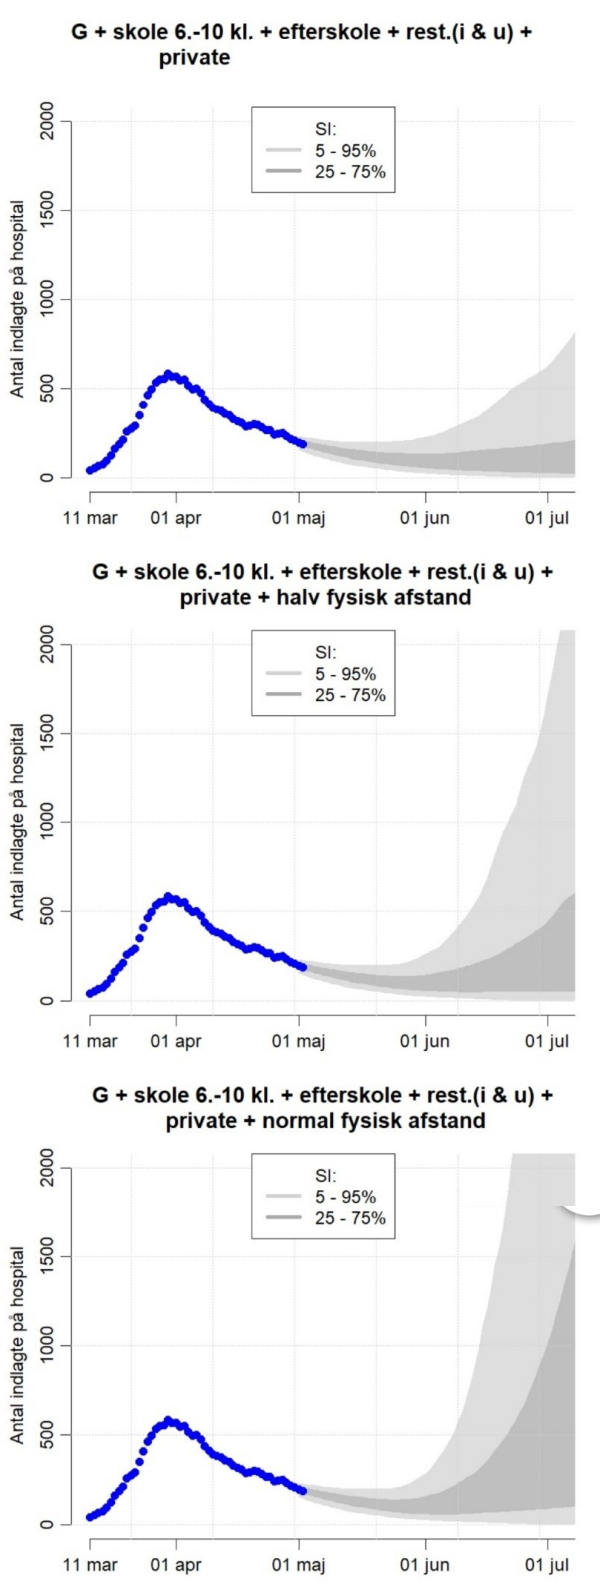
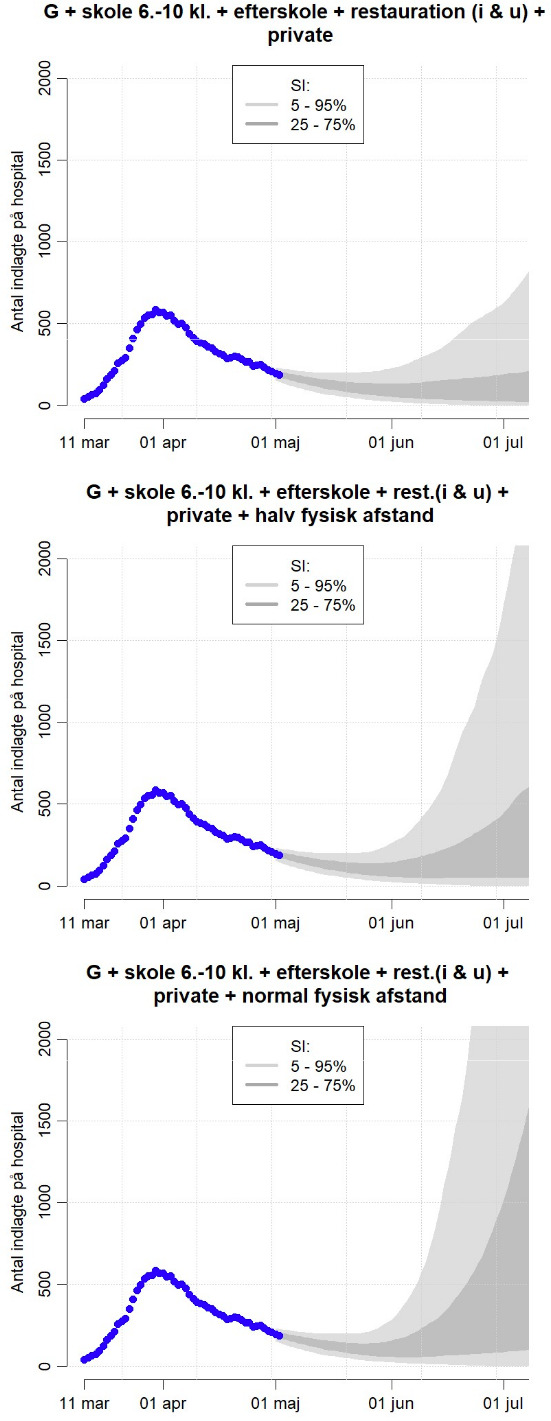
Pull original foregraph plots out of report

diff --git a/py/overlay.py b/py/overlay.py
@@ -15,18 +15,18 @@ def add_line(img, x0, y0, x1, y1):
   img[cc, rr] = (255, 0, 0)
 
 # coordinate for (0, 0) on the plot
-start_x = 89
-start_y = 477
+start_x = 80
+start_y = 405
 
 # the spacing between x-axis points (days)
-x_point_width = 4.1
+x_point_width = 3.77
 
 # the spacing between y-axis points (patients)
-y_point_width = 0.18
+y_point_width = 0.165
 
 # we have 523 pixels between the 3 plots
 # we draw our plot on top of each
-for offset_y in [0, 523, 523*2]:
+for offset_y in [0, 481, 481*2]:
   prev_x = start_x
   prev_y = start_y + offset_y
   for x, p in enumerate(points):
